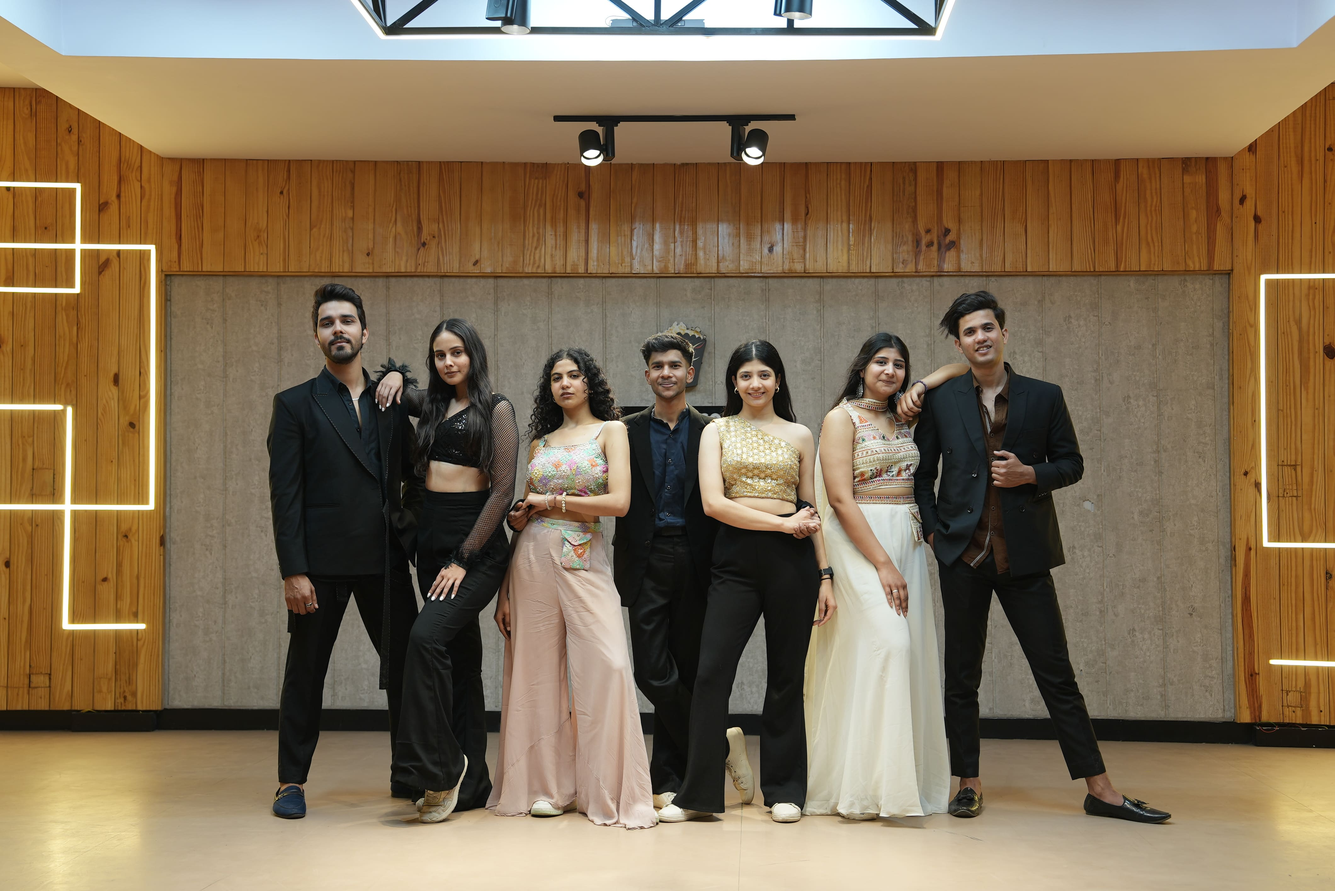
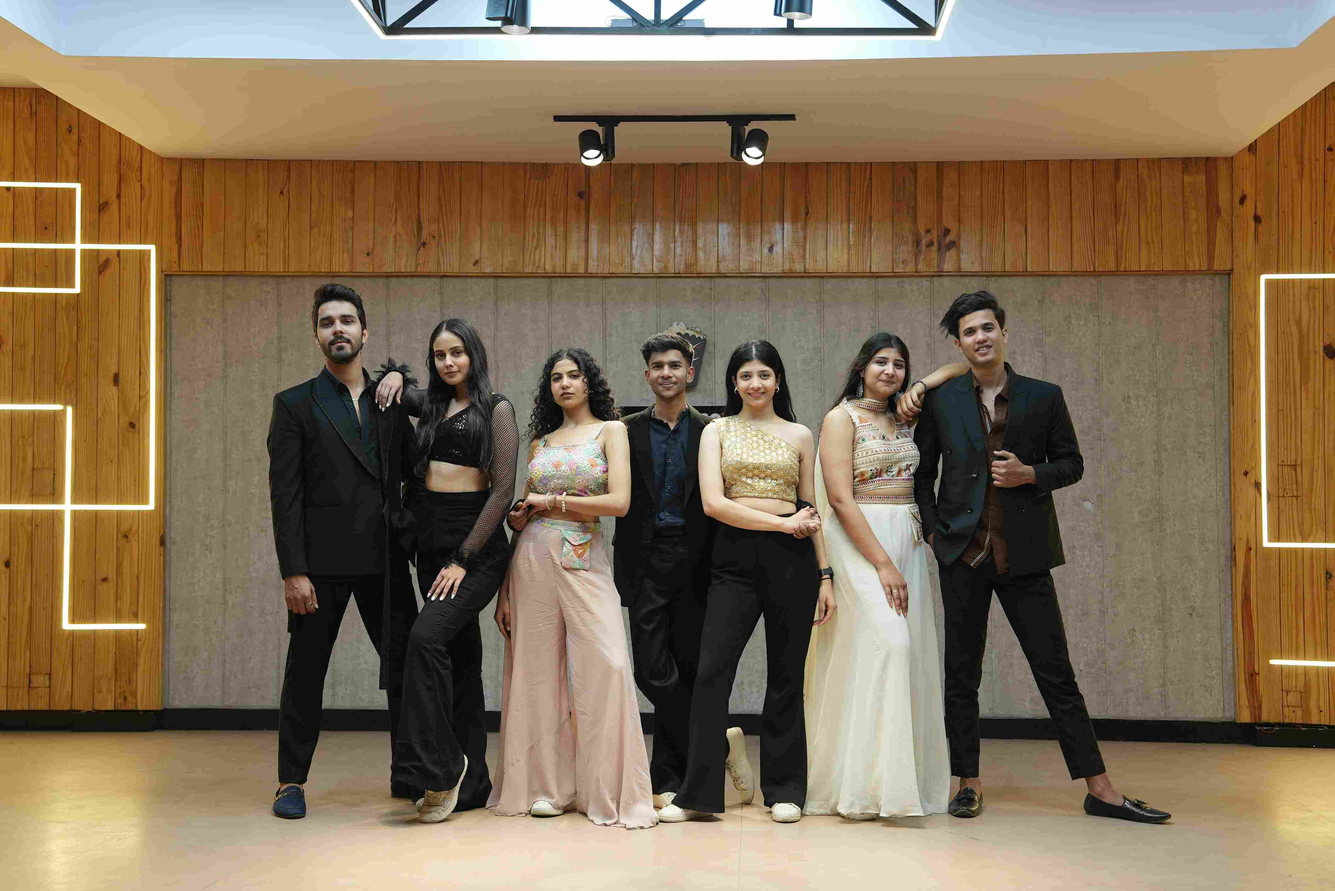
Background image size reduced

Changed region(s): [[0.3736, 0.4661, 0.467, 0.5593], [0.6538, 0.4661, 0.6849, 0.5593], [0.5604, 0.4972, 0.5915, 0.5593]]

diff --git a/css/style.css b/css/style.css
@@ -232,7 +232,7 @@ header .logoblack{
   height: 1px;
   width: 100%;
   right: 0;
-  background-color: var(--light-color);;
+  background-color: var(--light-color);
 }
 
 .header .hamburger-btn span:before {
@@ -260,7 +260,7 @@ header .logoblack{
 
 .header .nav ul li a {
   display: block;
-  color: var(--light-color);;
+  color: var(--light-color);
   font-size: 1.8rem;
   font-weight: 500;
   text-transform: uppercase;
@@ -273,11 +273,11 @@ header .logoblack{
   font-weight: 500;
   display: inline-block;
   border: 1px solid #c9a488;
-  color: var(--light-color);;
+  color: var(--light-color);
   background: transparent;
 }
 .header.fixed .button a {
-  color: var(--dark-color);;
+  color: var(--dark-color);
   background: transparent;
 }
 .header.fixed .nav ul li a {
@@ -290,17 +290,17 @@ header .logoblack{
 .home-section {
   min-height: 100vh;
   position: relative;
-  background: linear-gradient(rgba(0, 0, 0, 0.7), rgba(0, 0, 0, 0.7)), url(../img/background.jpg) center / cover no-repeat fixed;
+  background: linear-gradient(rgba(0, 0, 0, 0.7), rgba(0, 0, 0, 0.7)), url(../img/background.jpg);
   background-position: center center;
   background-size: cover;
 }
 .classes-text{
-  color: var(--light-color);;
+  color: var(--light-color);
 }
 .home-section .hero-text{
   margin-top: 20rem;
   padding:  7rem;
-  color: var(--light-color);;
+  color: var(--light-color);
 }
 .home-section .hero-text a{
   font-size: 1.5rem;
@@ -615,8 +615,6 @@ border: 1px solid #c9a488 !important;
 }
 
 .people-section .people-item {
-  /* flex: 0 0 25%; */
-  /* max-width: 25%; */
   padding: 1.5rem;
   margin-top: 2.5rem;
 }
@@ -927,7 +925,6 @@ border: 1px solid #c9a488 !important;
 }
 .swiper-button-prev:after,.swiper-button-next:after{
   color: #ffffff !important;
-  /* margin: -15px !important; */
 } 
 .swiper-button-prev, .swiper-button-next{
   width: 5rem !important;
@@ -1042,7 +1039,7 @@ background-color: #c9a488 !important;
   border-color: #25D366;
 }
 .rounded-social-buttons .social-button.instagram {
-  background: #F46899; ;
+  background: #F46899;
 }
 .rounded-social-buttons .social-button.instagram:hover,
 .rounded-social-buttons .social-button.instagram:focus {
@@ -1138,7 +1135,7 @@ form .form-group input{
   top: 0;
   right: 0;
   bottom: 0;
-  left: 0; /* z-index: 1050; */
+  left: 0;
   -webkit-overflow-scrolling: touch;
   outline: 0;
   opacity: 0;

diff --git a/index.html b/index.html
@@ -238,7 +238,7 @@
       <h2 class="heading-secondary">Once you try it, you can't stop</h2>
     <div class="youtube-video">
       <iframe src="https://www.youtube.com/embed/vbyp6cUKqzA?si=ZWDxzboeLQrvI2cJ" title="YouTube video player"
-      allow="accelerometer; autoplay; clipboard-write; encrypted-media; gyroscope; picture-in-picture; web-share"
+      allow="accelerometer; autoplay; clipboard-write; encrypted-media; gyroscope; picture-in-picture;"
       allowfullscreen></iframe>
     </div>
     </div>
@@ -720,15 +720,15 @@
   </script>
   <!-- Swiper JS -->
 
-  <script src="https://cdn.jsdelivr.net/npm/swiper@11/swiper-bundle.min.js"></script>
+  <script src="https://cdn.jsdelivr.net/npm/swiper@11/swiper-bundle.min.js" defer></script>
   <script type="module" src="https://unpkg.com/ionicons@5.5.2/dist/ionicons/ionicons.esm.js"></script>
-  <script src="js/jquery.min.js"></script>
+  <script src="js/jquery.min.js" defer></script>
   <!-- scrollit -->
   <script src="js/scrollIt.min.js"></script>
-  <script src="https://cdn.jsdelivr.net/npm/bootstrap@5.1.1/dist/js/bootstrap.bundle.min.js"
-    crossorigin="anonymous"></script>
+  <script src="https://cdn.jsdelivr.net/npm/bootstrap@5.1.1/dist/js/bootstrap.bundle.min.js" crossorigin="anonymous" defer></script>
   <!---  main -->
-  <script src="js/main.js"></script>
+  <script src="js/main.js" defer></script>
+  
 </body>
 
 </html>
